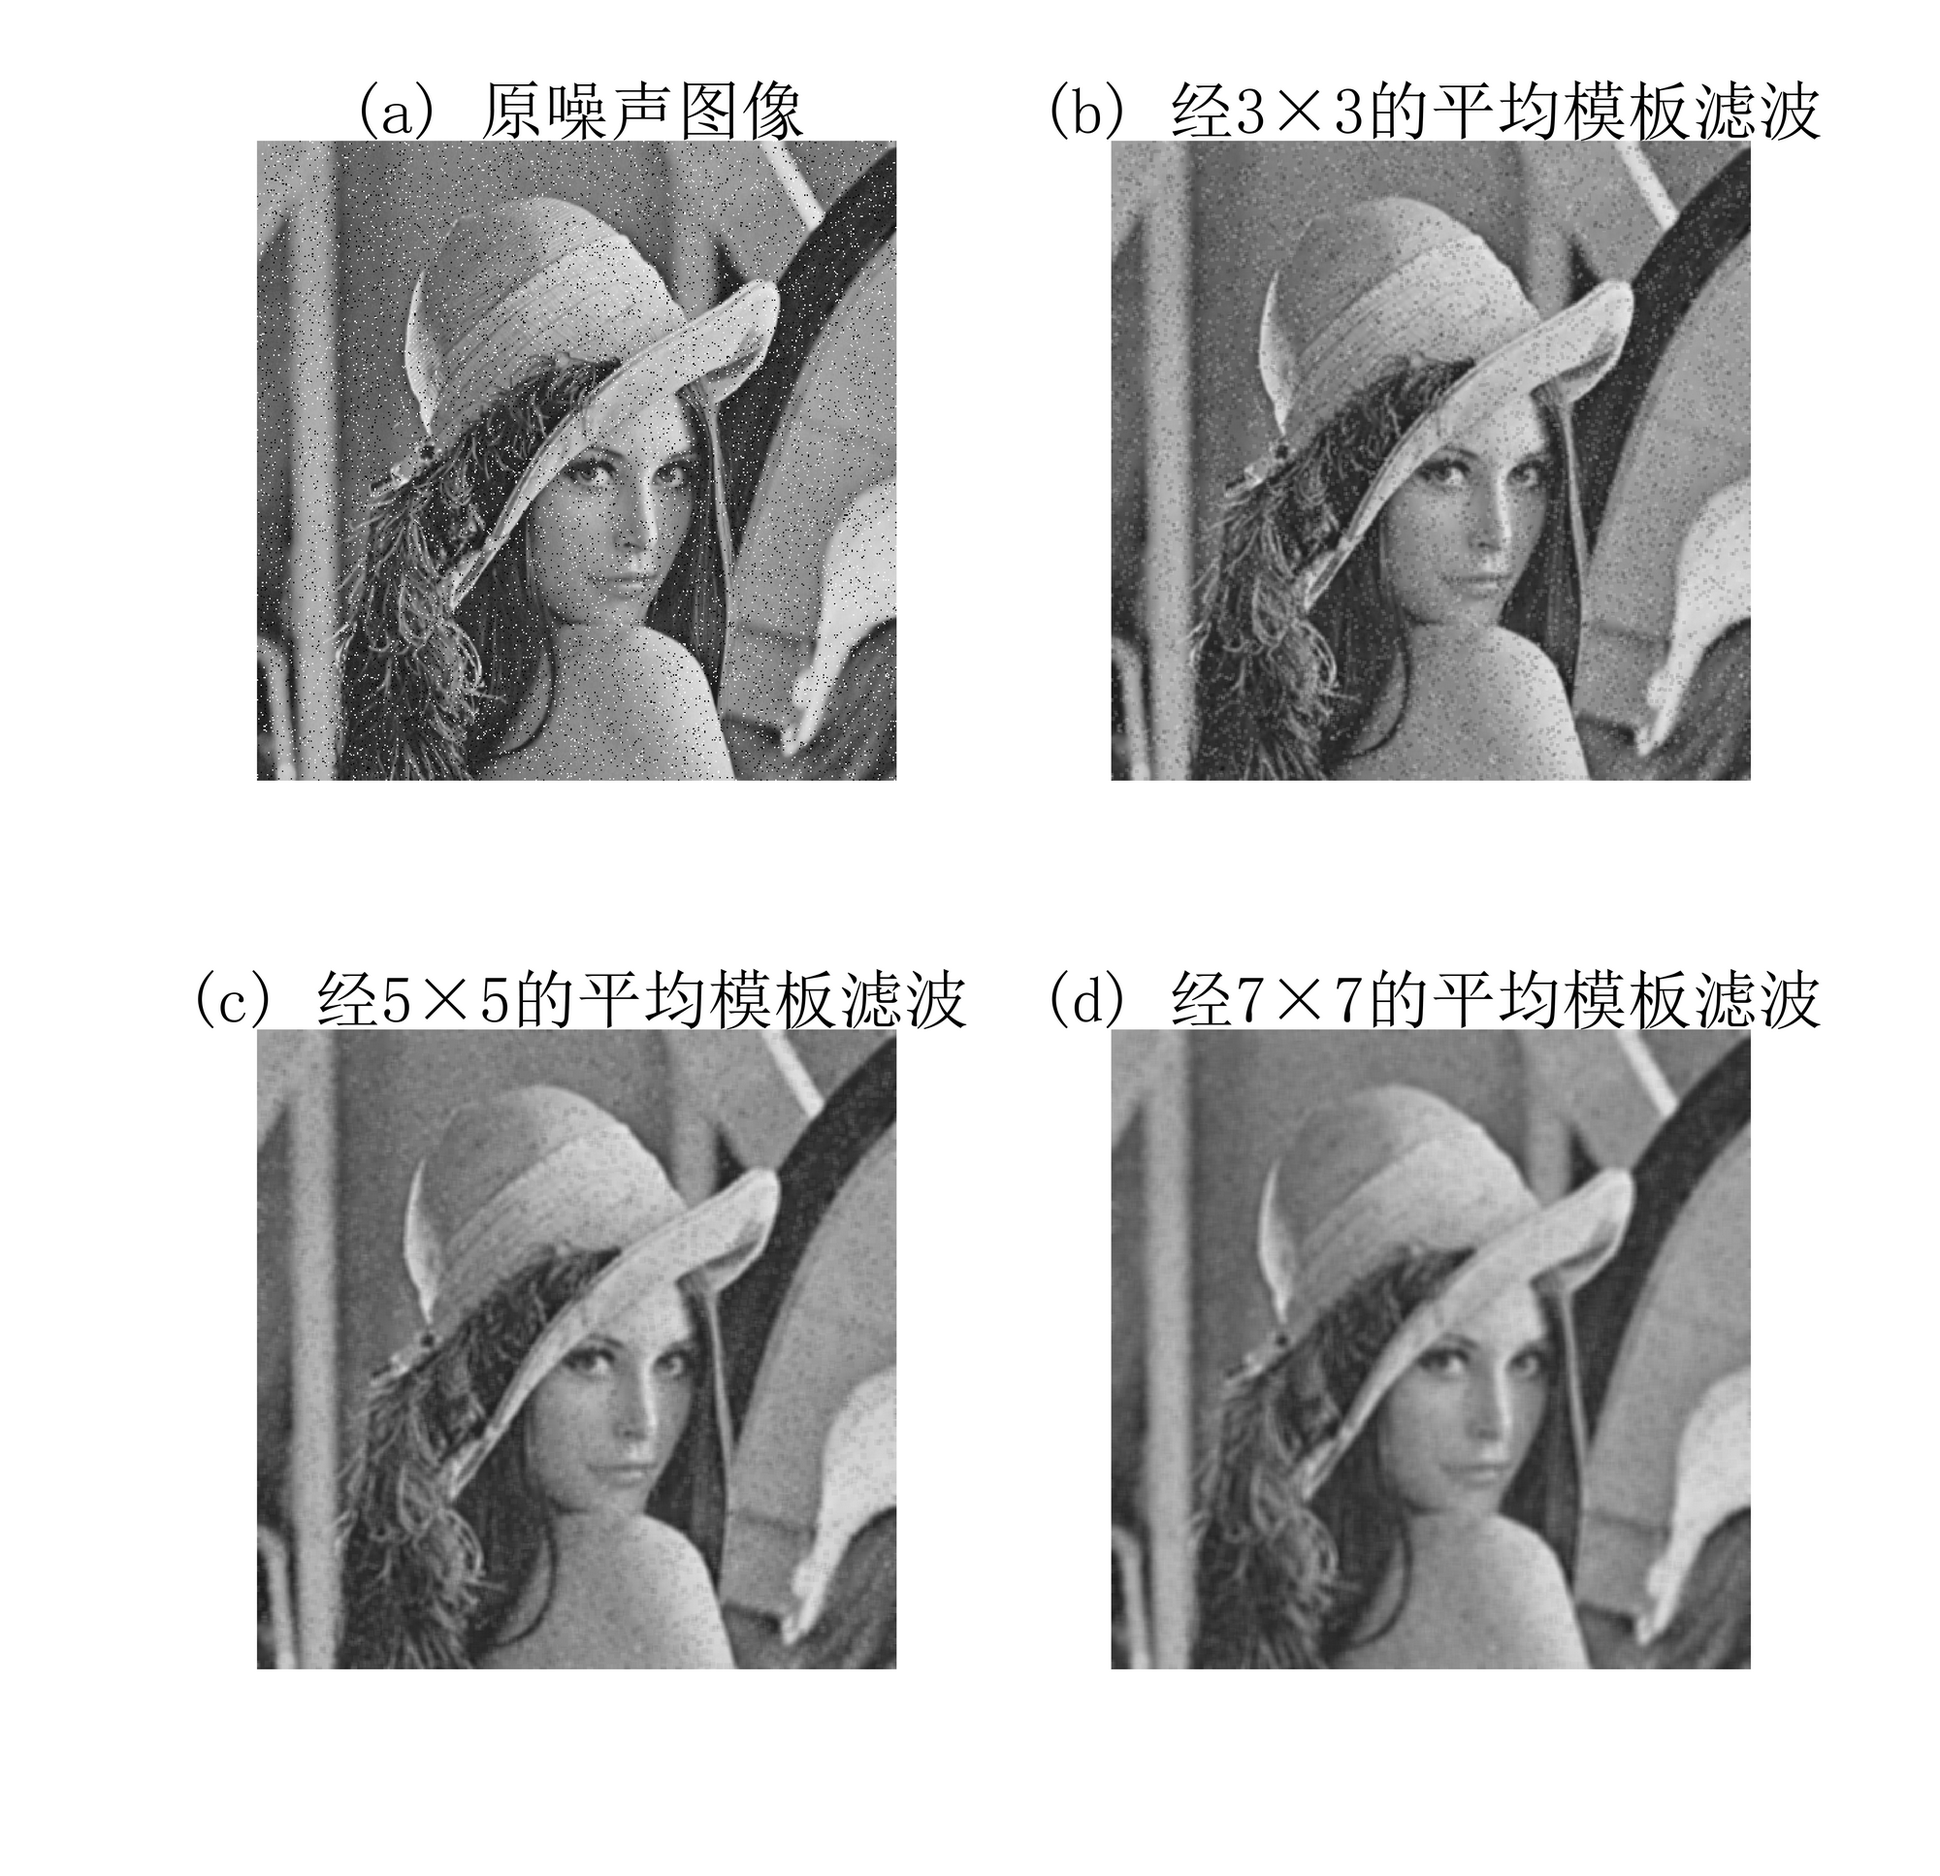
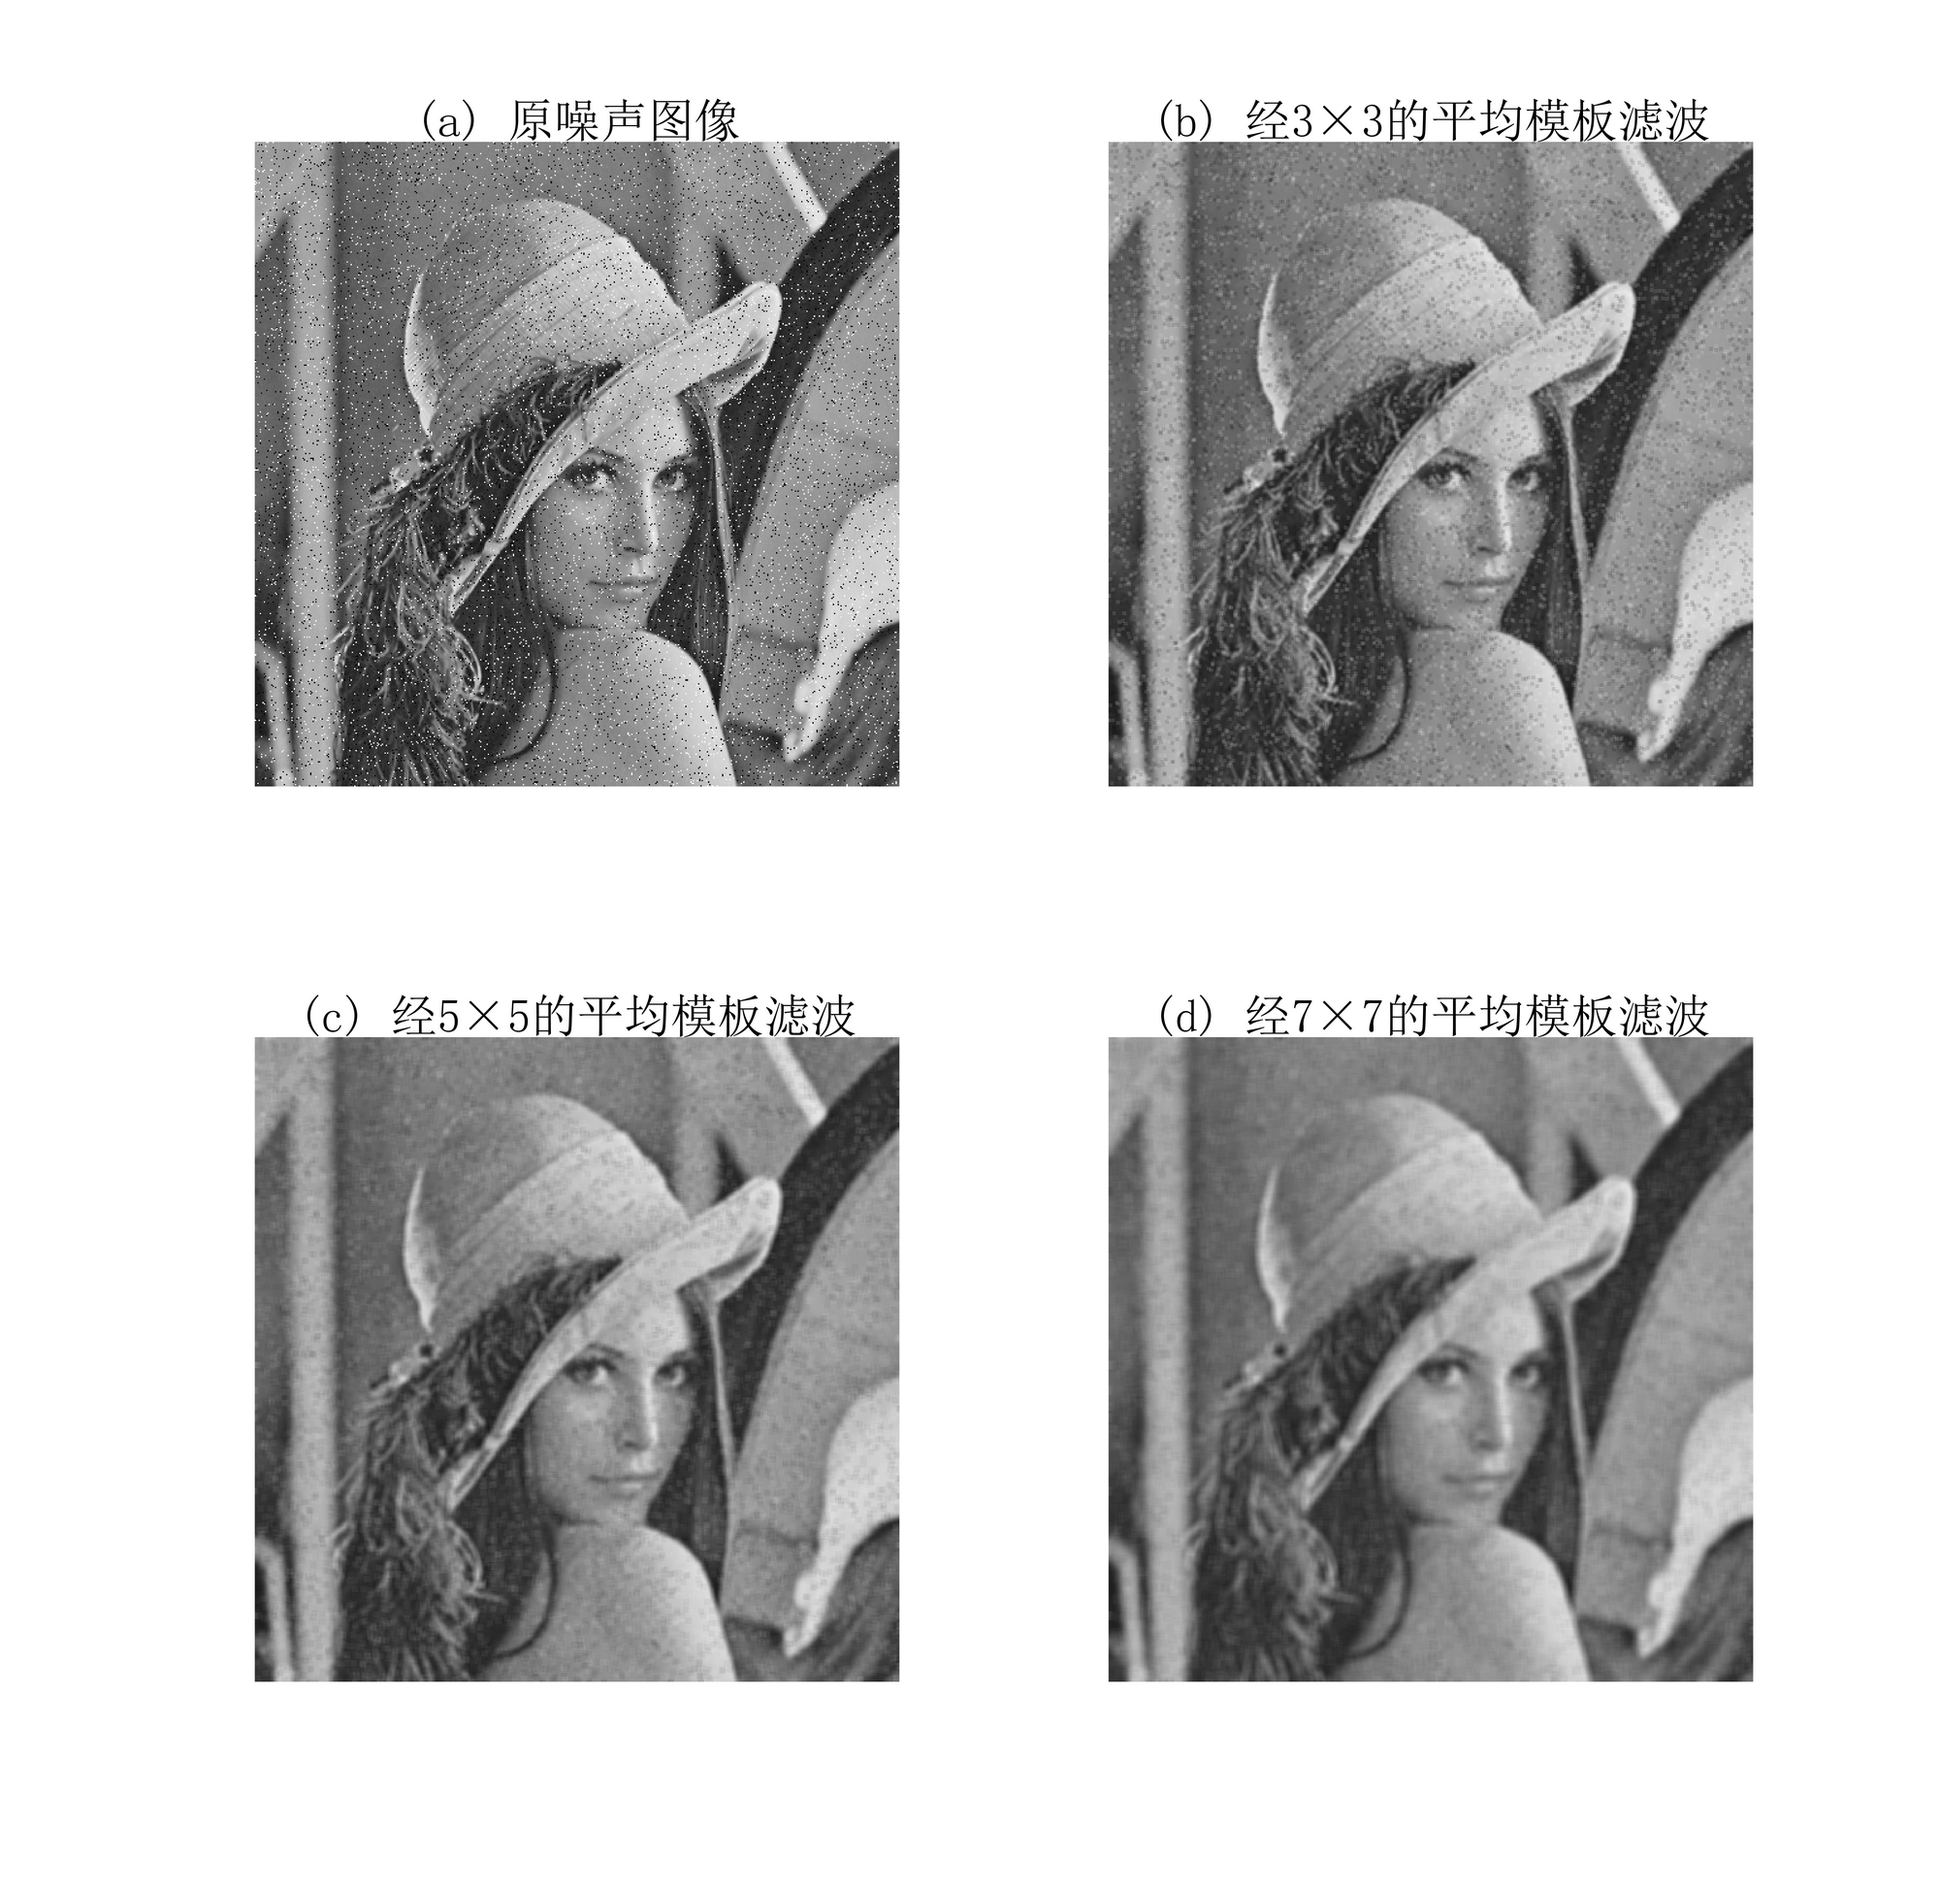
补充：图像说明及替换

diff --git a/content/zh/tech/optics/digital-image-processing-space-domain-image-enhancement.md b/content/zh/tech/optics/digital-image-processing-space-domain-image-enhancement.md
@@ -12,6 +12,8 @@ $$
 g(x,y)=T[f(x,y)]
 $$
 
+本文所用的原始图片为 RGB 图像，为了统一图像，所有程序均使用了 `rgb2gray` 将其转换为灰度图像再进行处理。
+
 ## 空间域滤波
 
 MATLAB 中与滤波相关的函数主要有 `imfilter` 和 `fspecial`。`imfilter` 完成滤波操作，而 `fspecial` 为使用者创建一些预定义的二维滤波器，直接供 `imfilter` 函数使用。
@@ -62,12 +64,17 @@ $$
 
 ```matlab
 f = imread('img.jpg');
+f = rgb2gray(f);
+
 subplot(1,2,1);
 imshow(f);
+title('(a) 原图像');
+
 w = [1 1 1; 1 1 1; 1 1 1]/9;
 g = imfilter(f,w,'corr','replicate');
 subplot(1,2,2);
 imshow(g);
+title('(b) 滤波后图像');
 ```
 
 运行结果如下图所示。
@@ -379,17 +386,17 @@ $$
 
 $$
 \begin{aligned}
-W1&=\begin{bmatrix}
+w1&=\begin{bmatrix}
 0&-1&0\\
 -1&4&-1\\
 0&-1&0
 \end{bmatrix},\\
-W2&=\begin{bmatrix}
+w2&=\begin{bmatrix}
 -1&-1&-1\\
 -1&8&-1\\
 -1&-1&-1
 \end{bmatrix},\\
-W3&=\begin{bmatrix}
+w3&=\begin{bmatrix}
 1&4&1\\
 4&-20&4\\
 1&4&1

diff --git a/content/zh/tech/optics/digital-image-processing-point-operation.md b/content/zh/tech/optics/digital-image-processing-point-operation.md
@@ -272,9 +272,9 @@ I = imread('img.jpg');
 thresh = graythresh(I);
 bw1 = im2bw(I,thresh);
 bw2 = im2bw(I,130/255);
-subplot(1,3,1); imshow(I);title('原图像');
-subplot(1,3,2); imshow(bw1);title('自动选择阈值');
-subplot(1,3,3); imshow(bw2);title('阈值 130');
+subplot(1,3,1); imshow(I); title('原图像');
+subplot(1,3,2); imshow(bw1); title('自动选择阈值');
+subplot(1,3,3); imshow(bw2); title('阈值 130');
 ```
 
 ![digital-image-processing-7.png](/images/digital-image-processing-7.png "灰度阈值变换")
